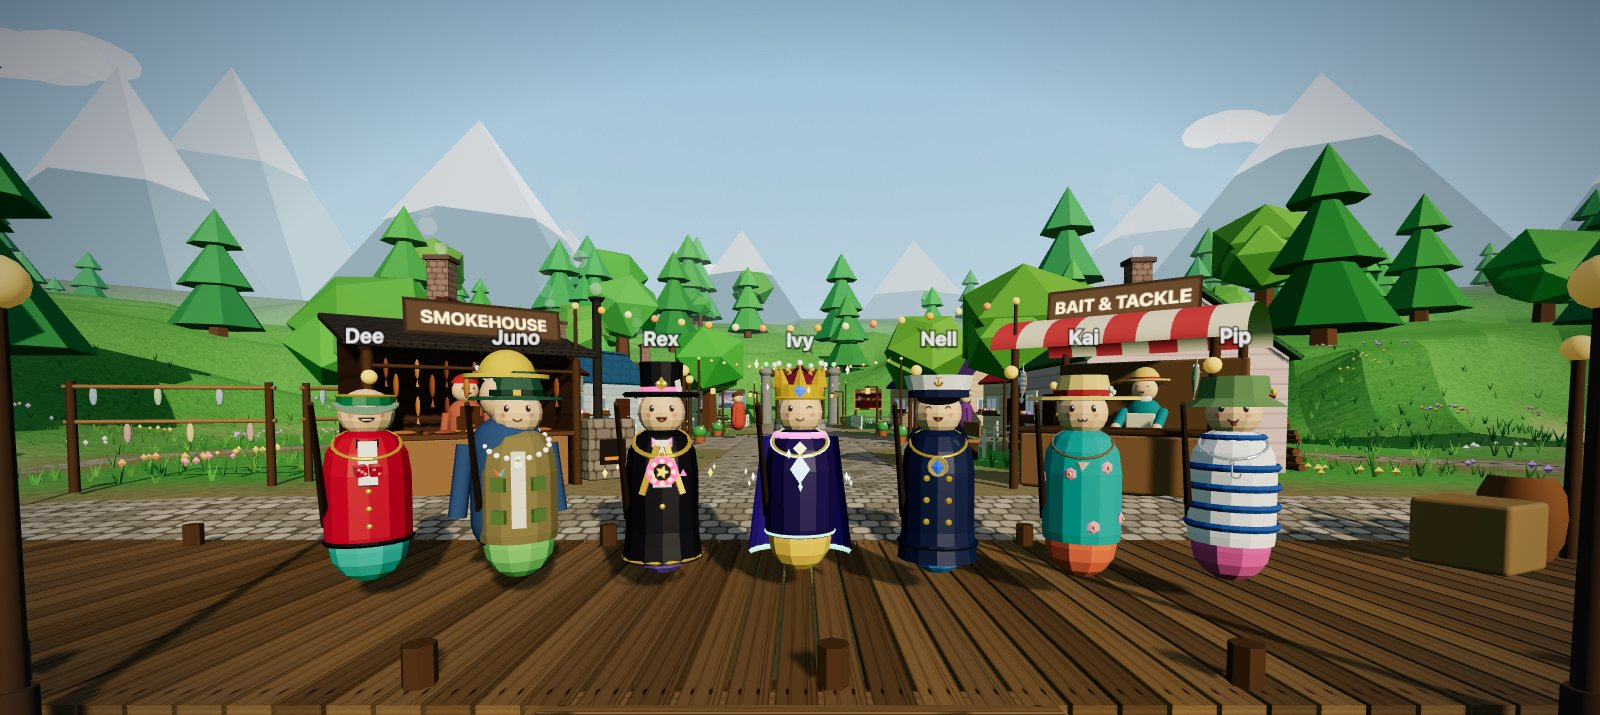
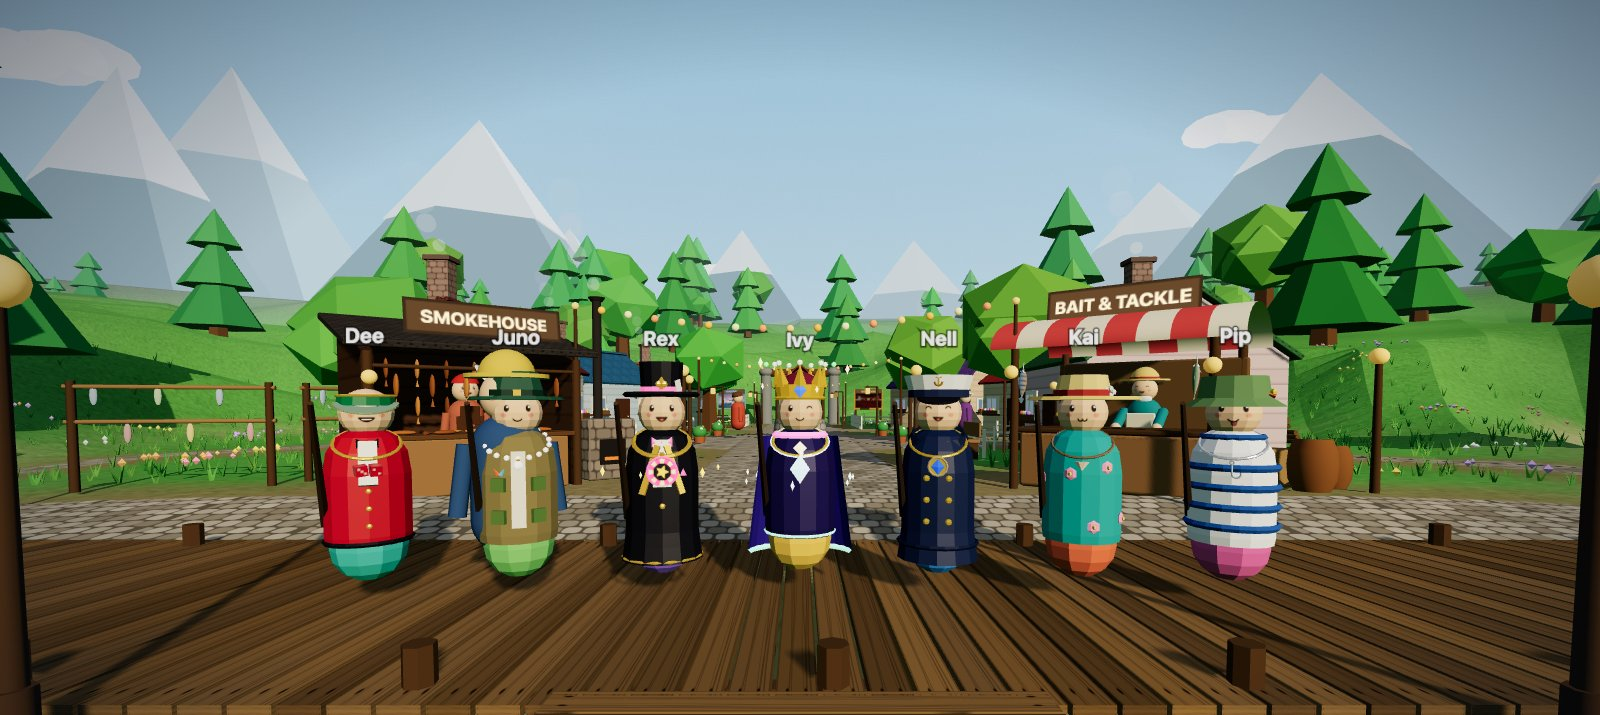
Play-test follow-ups: light at Reed's wharf (the CHARTERS arch's lantern casts real light on Reed, and a lamp on a pile stands at the wharf's lake end, lighting the plane and showing across the cove), and Marlow's two barrels, crate and lamp post moved off the quay's deck to the grass beside his sta

diff --git a/src/game/hub.ts b/src/game/hub.ts
@@ -402,17 +402,18 @@ export class Hub {
   }
 
   private buildProps(): void {
-    // Lamp posts. None stands where players walk. The dock's three (the quay's front either side of the pier, and the
-    // east jetty's end) stand on their own piles in the water, a step off the deck's edge, out of reach, so they
-    // need no collider. The quay's rear two are tucked against things that are solid already: the barrels by the
-    // stall, and the back of the bench at the east end. The rest stand beside the cobbles: up the main street to
+    // Lamp posts. None stands where players walk. The docks' four (the quay's front either side of the pier, the
+    // east jetty's end, and the lake end of Reed's wharf, which lights the wharf and his plane and shows across the
+    // cove) stand on their own piles in the water, a step off the deck's edge, out of reach, so they need no
+    // collider. The quay's two stand off its deck: one behind the quay road beside Marlow's stall, with his barrels,
+    // and one at the back of the bench at the east end. The rest stand beside the cobbles: up the main street to
     // the square, beside Reed's lane just before his arch, and in the fork where the village ring's lane meets the
-    // campfire lane, out of the view along the lane to the ring (the village's own posts are in town.ts). Five
-    // carry a point light.
+    // campfire lane, out of the view along the lane to the ring (the village's own posts are in town.ts). Six
+    // carry a point light: the four on piles and two of the rest.
     // Play-test: the spots.
-    const piles = [[-4, 9.7], [4, 9.7], [9.05, 4.5]];
+    const piles = [[-4, 9.7], [4, 9.7], [9.05, 4.5], [-15.7, -4.3]];
     const lit = new Set(['3.6,27.5', '-18.9,5.3']);
-    const posts = [[-8.45, 13.5], [11.2, 13.95], [-2.8, 22], [2.8, 22], [3.6, 27.5], [-3.6, 27.5], [-18.9, 5.3], [16.5, 13]];
+    const posts = [[-9.7, 17.3], [11.2, 13.95], [-2.8, 22], [2.8, 22], [3.6, 27.5], [-3.6, 27.5], [-18.9, 5.3], [16.5, 13]];
     const lampPost = (x: number, z: number, light: boolean, pile: boolean) => {
       const lamp = new THREE.Group();
       const pole = cyl(0.05, 0.07, 2.2, DARK, 8);
@@ -441,22 +442,20 @@ export class Hub {
     };
     for (const [x, z] of piles) lampPost(x, z, true, true);
     for (const [x, z] of posts) lampPost(x, z, lit.has(`${x},${z}`), false);
-    // Barrels and a crate on the quay deck by the stall's end: a working waterfront. The east corner stays clear,
-    // as the campfire lane leaves the quay there.
+    // Marlow's stock: two barrels and a crate on the grass at his stall's west end, behind the quay road, with a
+    // lamp post beside them. Nothing stands on the quay's deck or the road but the east bench. Play-test: the spots.
     const barrelGeo = new THREE.LatheGeometry(
       [[0.26, 0], [0.34, 0.2], [0.36, 0.45], [0.34, 0.7], [0.26, 0.9]].map(([x, y]) => new THREE.Vector2(x, y)),
       14,
     );
-    for (const [x, z, s] of [[-8, 13.6, 1], [-8.7, 13.9, 0.85]]) {
+    for (const [x, z, s] of [[-8.8, 17.5, 1], [-9.45, 17.9, 0.85]]) {
       const b = new THREE.Mesh(barrelGeo, mat(0x8a5a30));
       b.scale.setScalar(s);
       b.castShadow = true;
       this.place(b, { x, z, facing: 0 });
       this.fixed.push({ x, z, r: 0.38 * s });
     }
-    // The crate stands toward the water from the deck's rear edge, so the quay road behind it keeps its width past
-    // the stall.
-    const crates = [[-7.1, 13.2, 0.4]] as const;
+    const crates = [[-8.35, 18.2, 0.4]] as const;
     for (const [x, z, rot] of crates) {
       const c = rbox(0.8, 0.7, 0.8, 0x9c7a4a, 0.05);
       this.place(c, { x, z, facing: rot }, 0, 0, standHeight(x, z) + 0.35);

diff --git a/scripts/smoke.ts b/scripts/smoke.ts
@@ -184,8 +184,8 @@ async function pondChecks(): Promise<void> {
   const blocked = await page.evaluate(() => {
     const cs = (window.__game.world as any).colliders as { x: number; z: number; r: number }[];
     const hit = (x: number, z: number) => cs.some((c) => Math.hypot(c.x - x, c.z - z) < c.r + 0.05);
-    // The pier's bucket, the east jetty's barrel, Reed on his wharf, the seaplane's nose off the wharf's face and a quay barrel.
-    return { bucket: hit(-0.8, 1.6), barrel: hit(8.2, 8.6), reed: hit(-17.2, 0), plane: hit(-15.1, -1.6), stallBarrel: hit(-8, 13.6) };
+    // The pier's bucket, the east jetty's barrel, Reed on his wharf, the seaplane's nose off the wharf's face and a barrel by Marlow's stall.
+    return { bucket: hit(-0.8, 1.6), barrel: hit(8.2, 8.6), reed: hit(-17.2, 0), plane: hit(-15.1, -1.6), stallBarrel: hit(-8.8, 17.5) };
   });
   check('pond: dock props and NPCs can be walked through', !blocked.bucket && !blocked.barrel && !blocked.reed, JSON.stringify(blocked));
   check('pond: shore props still block, and so does the seaplane at the water\'s edge', blocked.stallBarrel && blocked.plane, JSON.stringify(blocked));

diff --git a/scripts/map-views.ts b/scripts/map-views.ts
@@ -77,6 +77,11 @@ export const WALK: Record<string, View> = {
   w15_gate: { x: 0, z: 52.5, yaw: Math.PI, note: 'at the gate' },
   w16_gate_back: { x: 0, z: 52.5, yaw: 0, note: 'from the gate looking back down to the water' },
   r01_quay_w: at(-9.5, 12.3, -16.5, 9, "quay west end, heading for Reed's lane"),
+  q01_quay_w_back: at(-12.5, 12.6, -3, 15.2, "from the quay's west end back along the deck and the quay road: Marlow's stall, his barrels and lamp beside it"),
+  nq1_quay_w_back: at(-12.5, 12.6, -3, 15.2, "the same at night", { night: 0.72 }),
+  nr1_wharf: at(-17.2, 6.5, -17.2, 0, "at the foot of Reed's lane at night: the arch's lantern on Reed, the wharf's lamp beyond", { night: 0.72 }),
+  nr2_wharf_quay: at(-9.5, 12.3, -16.5, 0, "Reed's wharf at night from the quay's west end", { night: 0.72 }),
+  nr3_wharf_pier: at(0, 2, -16.5, -1, "Reed's wharf at night from the pier", { night: 0.72 }),
   r02_lane: at(-15, 11, -19.2, 8.2, 'on the lane: the worm patch and the Furthest Out board ahead'),
   r03_board: at(-17.3, 9.4, -19.2, 8.2, 'reading the Furthest Out board'),
   r04_reed: at(-18.2, 1.6, -20, 1, 'talking to Reed'),

diff --git a/src/game/town.ts b/src/game/town.ts
@@ -678,7 +678,12 @@ export class Town {
     this.lamps.push(lamp.material as THREE.MeshLambertMaterial);
     const cap = cyl(0.14, 0.1, 0.06, DARK, 8);
     cap.position.y = H + 0.2;
-    g.add(lamp, cap);
+    // The lantern casts real light at night: it hangs in front of Reed and above him, so it lights his face for
+    // whoever comes down the lane, and the head of the wharf with him.
+    const glow = new THREE.PointLight(0xffc266, 0, 11, 1.6);
+    glow.position.y = H - 0.15;
+    this.lights.push(glow);
+    g.add(lamp, cap, glow);
     // A lifebuoy (a cream ring with red bands) hung on the beach-side post's outer side, clear of the way through,
     // facing up the lane.
     const BUOY_X = -HALF - 0.24;

diff --git a/GAME_DESIGN.md b/GAME_DESIGN.md
@@ -347,13 +347,13 @@ The physical Top Anglers board is a hall of fame built from every account's best
 
 ## 26. The town
 
-The land hub is a small cozy fishing town wrapped around a cove like a harbour: two pine-topped headlands frame the water, a timber quay runs across the back of the cove, the pier runs out of the quay's middle to its T end with a short jetty either side of the root, and a rock islet with a leafy tree and a lantern, 30 m past the T end and a few metres left of the pier's line, is the eye's target (casts stop short of it). Marlow's stall and the Smokehouse stand behind the quay facing the water with the Fishmonger and Net Mender beside them; a bench and a flower pot stand on the deck at the quay's east end, the wardrobe mirror at the deck's front west corner, clear of Reed's lane. A cobbled quay road runs along the deck's rear in front of the two stalls for the deck's whole length, wraps round each of its rear corners and carries on down as a lane: west as Reed's lane to his wharf, east as the campfire lane, so one cobbled way leads from the square to both. Lanes end in rounds of cobbles and bend in rounded joins, the cobbles follow the terrain as it is drawn, and no shore rock or reed lies on them. Under the docks the ground is held just below the planks, so the deck shows a clean edge where it meets sand and stone. A cobbled main street climbs from the quay to the well square, which is a junction: lanes run round the village (past Wren's Cottage down to the worm patch and the quay's west end, and past the Net Mender down to the campfire on the east headland), and three more cottages stagger up to the casino gate. The campfire is the town's meeting place, a fire ring: a level round cobbled floor with a stone kerb, the fire in its middle and a low stone seat wall with a plank top round its hill side. Top Anglers and the supporters board stand just behind the wall as a pair, the same distance from the fire, so the fire lights them at night and the cove sees them from the pier and the east jetty; a log seat sits on the rim and the water side stays open. The campfire lane runs from the quay's east corner along the foot of the hill to where the village ring's lane meets it, and from there down through a gate of two tall lantern posts, with string lights from the gate round above the wall. The floor is levelled ground (`levels` in `MapDef`: built up toward the water, dug into the hill), and the ring's shape is `RING` in `src/data/maps.ts`. The cottages stand 4-5 m back from the street; each has windows with flower boxes on all four sides (lit at night), a woodpile and a water barrel behind, and the four lower ones a fenced garden beside the door. The town's pad is grass, worn to dirt only along the paths, round the square and in front of the stalls (`dirtWeight` in `src/game/env.ts`), with leafy trees among the houses and pines round its edge (`town.trees`). The quay's west end is Captain Reed's corner: his lane runs down past the worm patch and the Furthest Out board, along the water's edge and under a CHARTERS arch onto his wharf, a short timber landing along his beach. Reed stands on the boards under the arch, where the walk down the lane shows him first; players land back from a charter just inside the arch; and his seaplane is berthed nose-on to the wharf's face, tied to two mooring piles. The wharf is a dock to stand on, not to fish from (see Prime fishing spots). Layout lives in `MapDef.town` (`src/data/maps.ts`), the shoreline and docks in `src/game/env.ts`, geometry in `src/game/town.ts` and `src/game/hub.ts`.
+The land hub is a small cozy fishing town wrapped around a cove like a harbour: two pine-topped headlands frame the water, a timber quay runs across the back of the cove, the pier runs out of the quay's middle to its T end with a short jetty either side of the root, and a rock islet with a leafy tree and a lantern, 30 m past the T end and a few metres left of the pier's line, is the eye's target (casts stop short of it). Marlow's stall and the Smokehouse stand behind the quay facing the water with the Fishmonger and Net Mender beside them; a bench and a flower pot stand on the deck at the quay's east end (nothing else stands on the deck or the quay road), the wardrobe mirror at the deck's front west corner, clear of Reed's lane. A cobbled quay road runs along the deck's rear in front of the two stalls for the deck's whole length, wraps round each of its rear corners and carries on down as a lane: west as Reed's lane to his wharf, east as the campfire lane, so one cobbled way leads from the square to both. Lanes end in rounds of cobbles and bend in rounded joins, the cobbles follow the terrain as it is drawn, and no shore rock or reed lies on them. Under the docks the ground is held just below the planks, so the deck shows a clean edge where it meets sand and stone. A cobbled main street climbs from the quay to the well square, which is a junction: lanes run round the village (past Wren's Cottage down to the worm patch and the quay's west end, and past the Net Mender down to the campfire on the east headland), and three more cottages stagger up to the casino gate. The campfire is the town's meeting place, a fire ring: a level round cobbled floor with a stone kerb, the fire in its middle and a low stone seat wall with a plank top round its hill side. Top Anglers and the supporters board stand just behind the wall as a pair, the same distance from the fire, so the fire lights them at night and the cove sees them from the pier and the east jetty; a log seat sits on the rim and the water side stays open. The campfire lane runs from the quay's east corner along the foot of the hill to where the village ring's lane meets it, and from there down through a gate of two tall lantern posts, with string lights from the gate round above the wall. The floor is levelled ground (`levels` in `MapDef`: built up toward the water, dug into the hill), and the ring's shape is `RING` in `src/data/maps.ts`. The cottages stand 4-5 m back from the street; each has windows with flower boxes on all four sides (lit at night), a woodpile and a water barrel behind, and the four lower ones a fenced garden beside the door. The town's pad is grass, worn to dirt only along the paths, round the square and in front of the stalls (`dirtWeight` in `src/game/env.ts`), with leafy trees among the houses and pines round its edge (`town.trees`). The quay's west end is Captain Reed's corner: his lane runs down past the worm patch and the Furthest Out board, along the water's edge and under a CHARTERS arch onto his wharf, a short timber landing along his beach. Reed stands on the boards under the arch, where the walk down the lane shows him first; players land back from a charter just inside the arch; and his seaplane is berthed nose-on to the wharf's face, tied to two mooring piles. The wharf is a dock to stand on, not to fish from (see Prime fishing spots). Layout lives in `MapDef.town` (`src/data/maps.ts`), the shoreline and docks in `src/game/env.ts`, geometry in `src/game/town.ts` and `src/game/hub.ts`.
 
 - **Decision (2026-11-08)**: the map was reworked from the straight-shore layout to the "Harbour crescent" plan, the hybrid judged best of three options (37/40). The brief, the three plans and every round's scores are in `docs/map-rework/` (`JUDGING.md`, `harbour.md`); the greybox and build findings in `docs/map-rework/HANDOFF.md`.
 
 - **Townsfolk**: Old Salty (pier tips), Pip, Granny Wren and Captain Reed. Press E to talk; lines cycle and some change at night.
 - **Messages in bottles**: 7 hidden around town, shore and pier. Each pays 40 coins once; finding all 7 pays a 300 coin bonus. Found bottles are saved per account (`SaveData.bottles`); the server verifies the player is within 4 m.
-- **Coziness**: lantern posts line the quay, the street and the lanes (eight cast real light at night); none stands on a walkway: the quay's front pair and the east jetty's stand on piles in the water a step off the deck's edge, the quay's rear pair are tucked against the stall's barrels and behind the east bench, and the rest stand beside the cobbles (one in the fork where the village ring's lane meets the campfire lane, one by Reed's arch). Benches and planters ring the plaza, string lights span the mouth of the main street between the two stalls (from masts on the stalls, no posts on the quay road), the square, the gate and the campfire's circle, a bench on the east jetty looks across the water to the campfire, a picnic blanket overlooks Reed's lane, and firewood is stacked by Wren's Cottage. Bottles rest on the ground or the deck; the rowboat is moored beside the west jetty.
+- **Coziness**: lantern posts line the quay, the street and the lanes; none stands on a walkway. Four stand on piles in the water a step off a deck's edge (the quay's front pair, the east jetty's end and the lake end of Reed's wharf), one stands behind the quay road beside Marlow's stall with his barrels and crate, one behind the east bench, and the rest beside the cobbles (one in the fork where the village ring's lane meets the campfire lane, one by Reed's arch). The four on piles, two of the others, three of the village's and the lantern on Reed's CHARTERS arch cast real light at night; only the eight lights nearest the player are on at once (`LightPool`). Benches and planters ring the plaza, string lights span the mouth of the main street between the two stalls (from masts on the stalls, no posts on the quay road), the square, the gate and the campfire's circle, a bench on the east jetty looks across the water to the campfire, a picnic blanket overlooks Reed's lane, and firewood is stacked by Wren's Cottage. Bottles rest on the ground or the deck; the rowboat is moored beside the west jetty.
 
 ## 27. Night fishing
 

diff --git a/DONE.md b/DONE.md
@@ -2,6 +2,14 @@
 
 Finished TODO items, newest first, with what was decided and how each was checked. Add new ones at the top.
 
+- [x] Play-test follow-ups: light at Reed's wharf, and Marlow's barrels, crate and lamp off the deck (Oscar, 2026-11-13; done 2026-11-13, branch `quay-east-clear`)
+  - Oscar: a lamp or light by Reed's dock would help it show at night and add to the mood; and the lamp post with the crate and barrels still stood in the middle of the main walkway on the deck by Marlow's stall: move or remove them, whichever fits best without making the night darker
+  - Reed's wharf: the lantern on the CHARTERS arch now casts real light (it hangs in front of Reed and above him, so it lights his face for whoever comes down the lane), and a lamp post on a pile stands in the water at the wharf's lake end, (-15.7, -4.3), like the quay's, lighting the wharf's end and the plane and showing across the cove with its reflection. Both are out of reach, so neither has a collider. Two more point lights on the map; only the eight nearest the player are on at once, as before (`LightPool`)
+  - Marlow's stall: the two barrels, the crate and the lamp post moved off the deck to the grass at the stall's west end, behind the quay road: barrels (-8.8, 17.5) and (-9.45, 17.9), crate (-8.35, 18.2), lamp (-9.7, 17.3). The lamp is 4 m from where it stood and was a glowing bulb without a light of its own, so the quay is no darker. Nothing but the east bench stands on the deck or the road now (`buildProps`, `src/game/hub.ts`)
+  - Docs: GAME_DESIGN.md's Coziness line. README harbour and outfits photos re-taken
+  - Checked: the build, 594 tests and smoke 113/113 (its barrel check moved to the new spot); a plan of the stall's end, and headless views by day and night (`scripts/map-views.ts --walk`: q01, nq1, nr1, nr2, nr3)
+  - Play-test: the wharf lamp's spot and brightness, and three lights close together at the foot of the lane (the lane's lamp, the arch, the wharf); the barrels and lamp beside the stall
+
 - [x] The boards' posts no longer come through their faces (Oscar, 2026-11-13; done 2026-11-13, branch `quay-east-clear`)
   - Oscar: make sure the posts of the signs aren't clipping through the signs. Top Anglers, Thanks, the Furthest Out board and the two posters by the gate each stood on posts set in the middle of the frame, and the posts are thicker than the frame, so they showed as two stripes down the face
   - Built: the posts stand 0.14 m behind the frame's middle (`BEHIND`, `src/game/hub.ts`), so each board is nailed to the front of its posts. The cottages' yard signs and the CHARTERS arch were checked and were clear already
